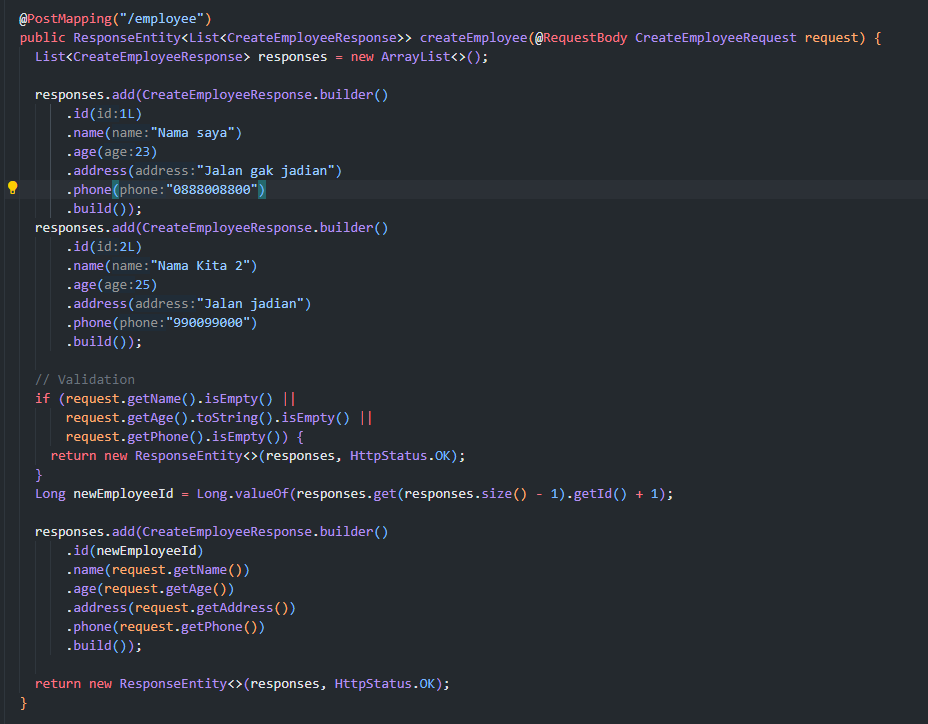
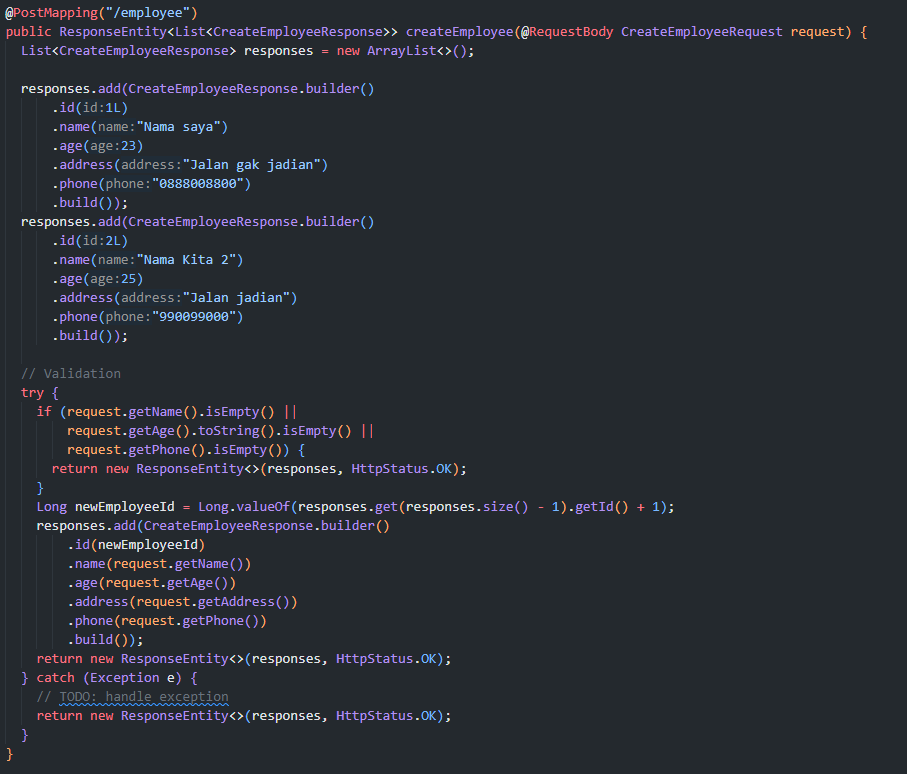
add try catch to validation

Changed region(s): [[0.0, 0.4862, 0.7409, 0.9724], [0.0, 0.0, 0.957, 0.4862], [0.0, 0.2431, 0.0309, 0.2735]]

diff --git a/exercise/day-2/section-1/first-application/src/main/java/com/example/first_application/FirstApplication.java b/exercise/day-2/section-1/first-application/src/main/java/com/example/first_application/FirstApplication.java
@@ -237,22 +237,25 @@ public class FirstApplication {
         .build());
 
     // Validation
-    if (request.getName().isEmpty() ||
-        request.getAge().toString().isEmpty() ||
-        request.getPhone().isEmpty()) {
+    try {
+      if (request.getName().isEmpty() ||
+          request.getAge().toString().isEmpty() ||
+          request.getPhone().isEmpty()) {
+        return new ResponseEntity<>(responses, HttpStatus.OK);
+      }
+      Long newEmployeeId = Long.valueOf(responses.get(responses.size() - 1).getId() + 1);
+      responses.add(CreateEmployeeResponse.builder()
+          .id(newEmployeeId)
+          .name(request.getName())
+          .age(request.getAge())
+          .address(request.getAddress())
+          .phone(request.getPhone())
+          .build());
+      return new ResponseEntity<>(responses, HttpStatus.OK);
+    } catch (Exception e) {
+      // TODO: handle exception
       return new ResponseEntity<>(responses, HttpStatus.OK);
     }
-    Long newEmployeeId = Long.valueOf(responses.get(responses.size() - 1).getId() + 1);
-
-    responses.add(CreateEmployeeResponse.builder()
-        .id(newEmployeeId)
-        .name(request.getName())
-        .age(request.getAge())
-        .address(request.getAddress())
-        .phone(request.getPhone())
-        .build());
-
-    return new ResponseEntity<>(responses, HttpStatus.OK);
   }
 
 }
